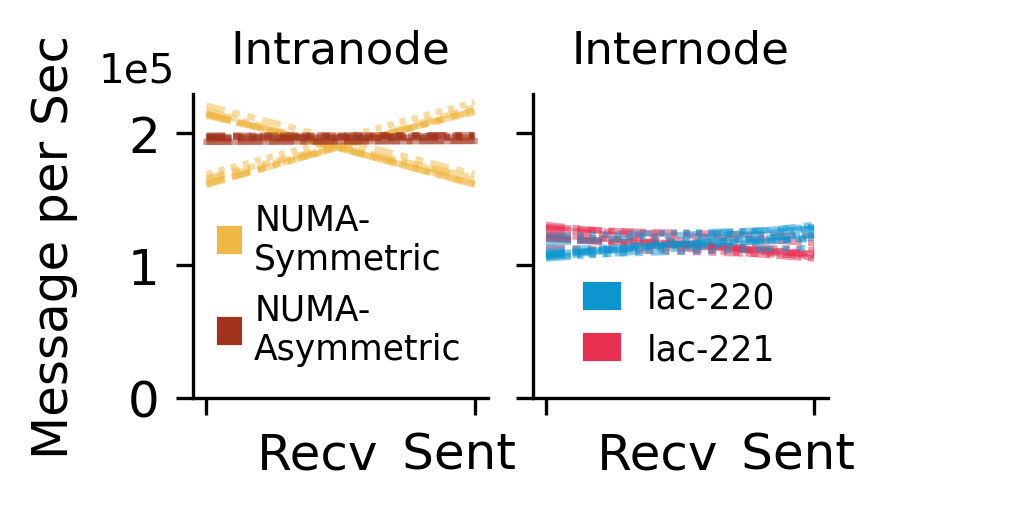
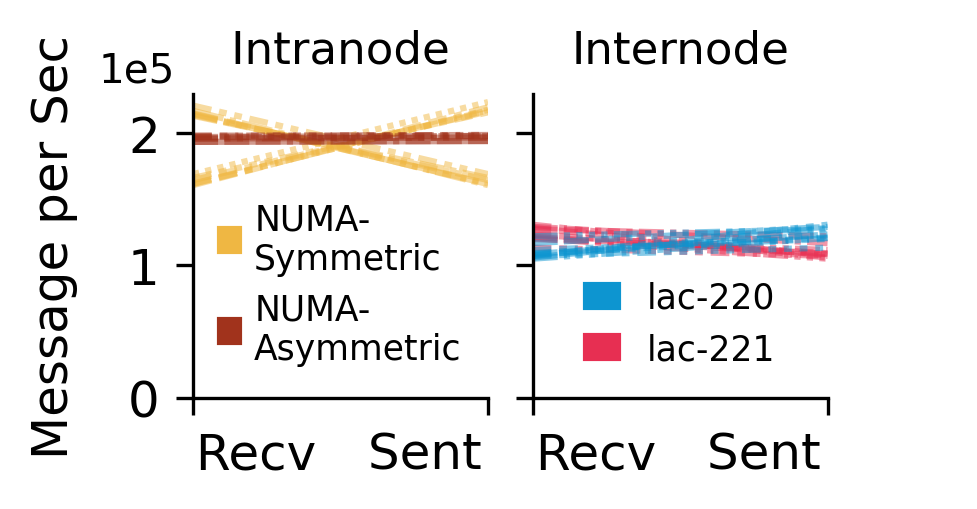
Deploying to bindle-2026-05-15-mp-vs-mt-beleagurement.py from @ mmore500/gptp2026@160072e 🚀

diff --git a/bindle/2026-05-15-mp-vs-mt-beleagurement.py b/bindle/2026-05-15-mp-vs-mt-beleagurement.py
@@ -343,14 +343,19 @@ def _(df_long, mpl, palette, pathlib, plt, sns, tp):
                 fontsize=_a.title.get_fontsize() * 0.9,
             )
 
-        # nudge "Recv"/"Sent" apart so they don't crowd together
+        # left-align "Recv" so its "R" sits at the left axis and
+        # right-align "Sent" so its "t" sits at the right axis, instead of
+        # each label centering on its tick (which crowds them together);
+        # zero the categorical x-margin so the Recv/Sent ticks actually sit
+        # at the axes edges (otherwise the default margin leaves a gap
+        # between the tick and the spine that the alignment can't close)
         for _a in _g.axes.flat:
-            _a.set_xticklabels(
-                [
-                    f"{_t.get_text()}   " if _t.get_text() == "Recv" else f"   {_t.get_text()}"
-                    for _t in _a.get_xticklabels()
-                ]
-            )
+            _a.margins(x=0)
+            for _t in _a.get_xticklabels():
+                if _t.get_text() == "Recv":
+                    _t.set_ha("left")
+                elif _t.get_text() == "Sent":
+                    _t.set_ha("right")
 
         # Left facet legend — NUMA symmetry, bottom
         _ax0 = _g.axes.flat[0]
